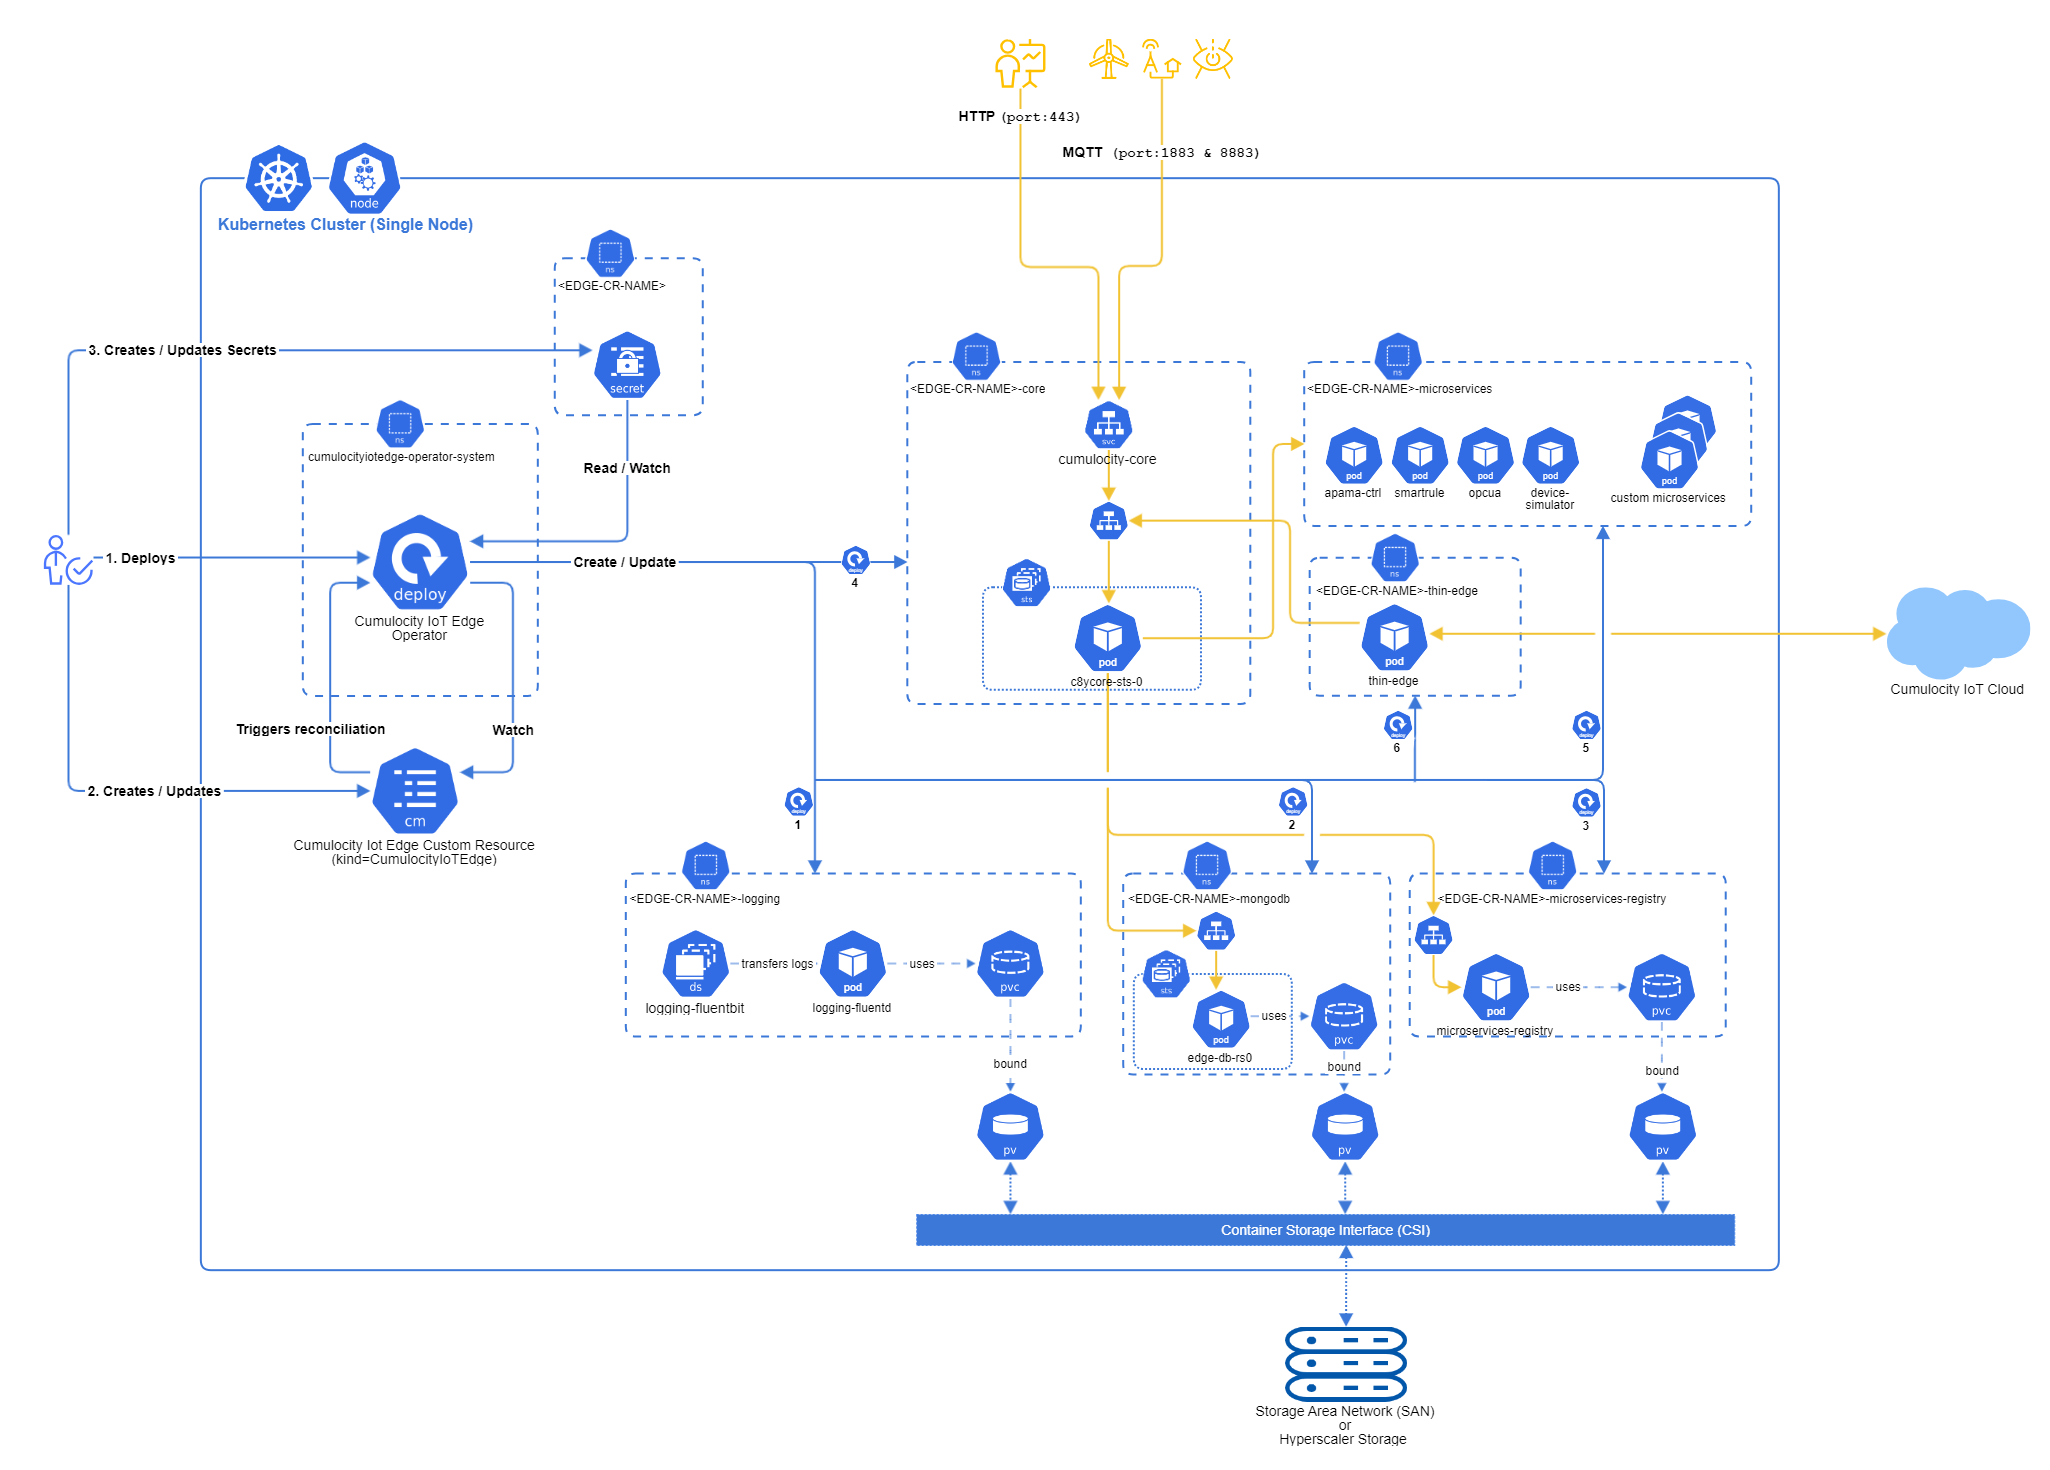
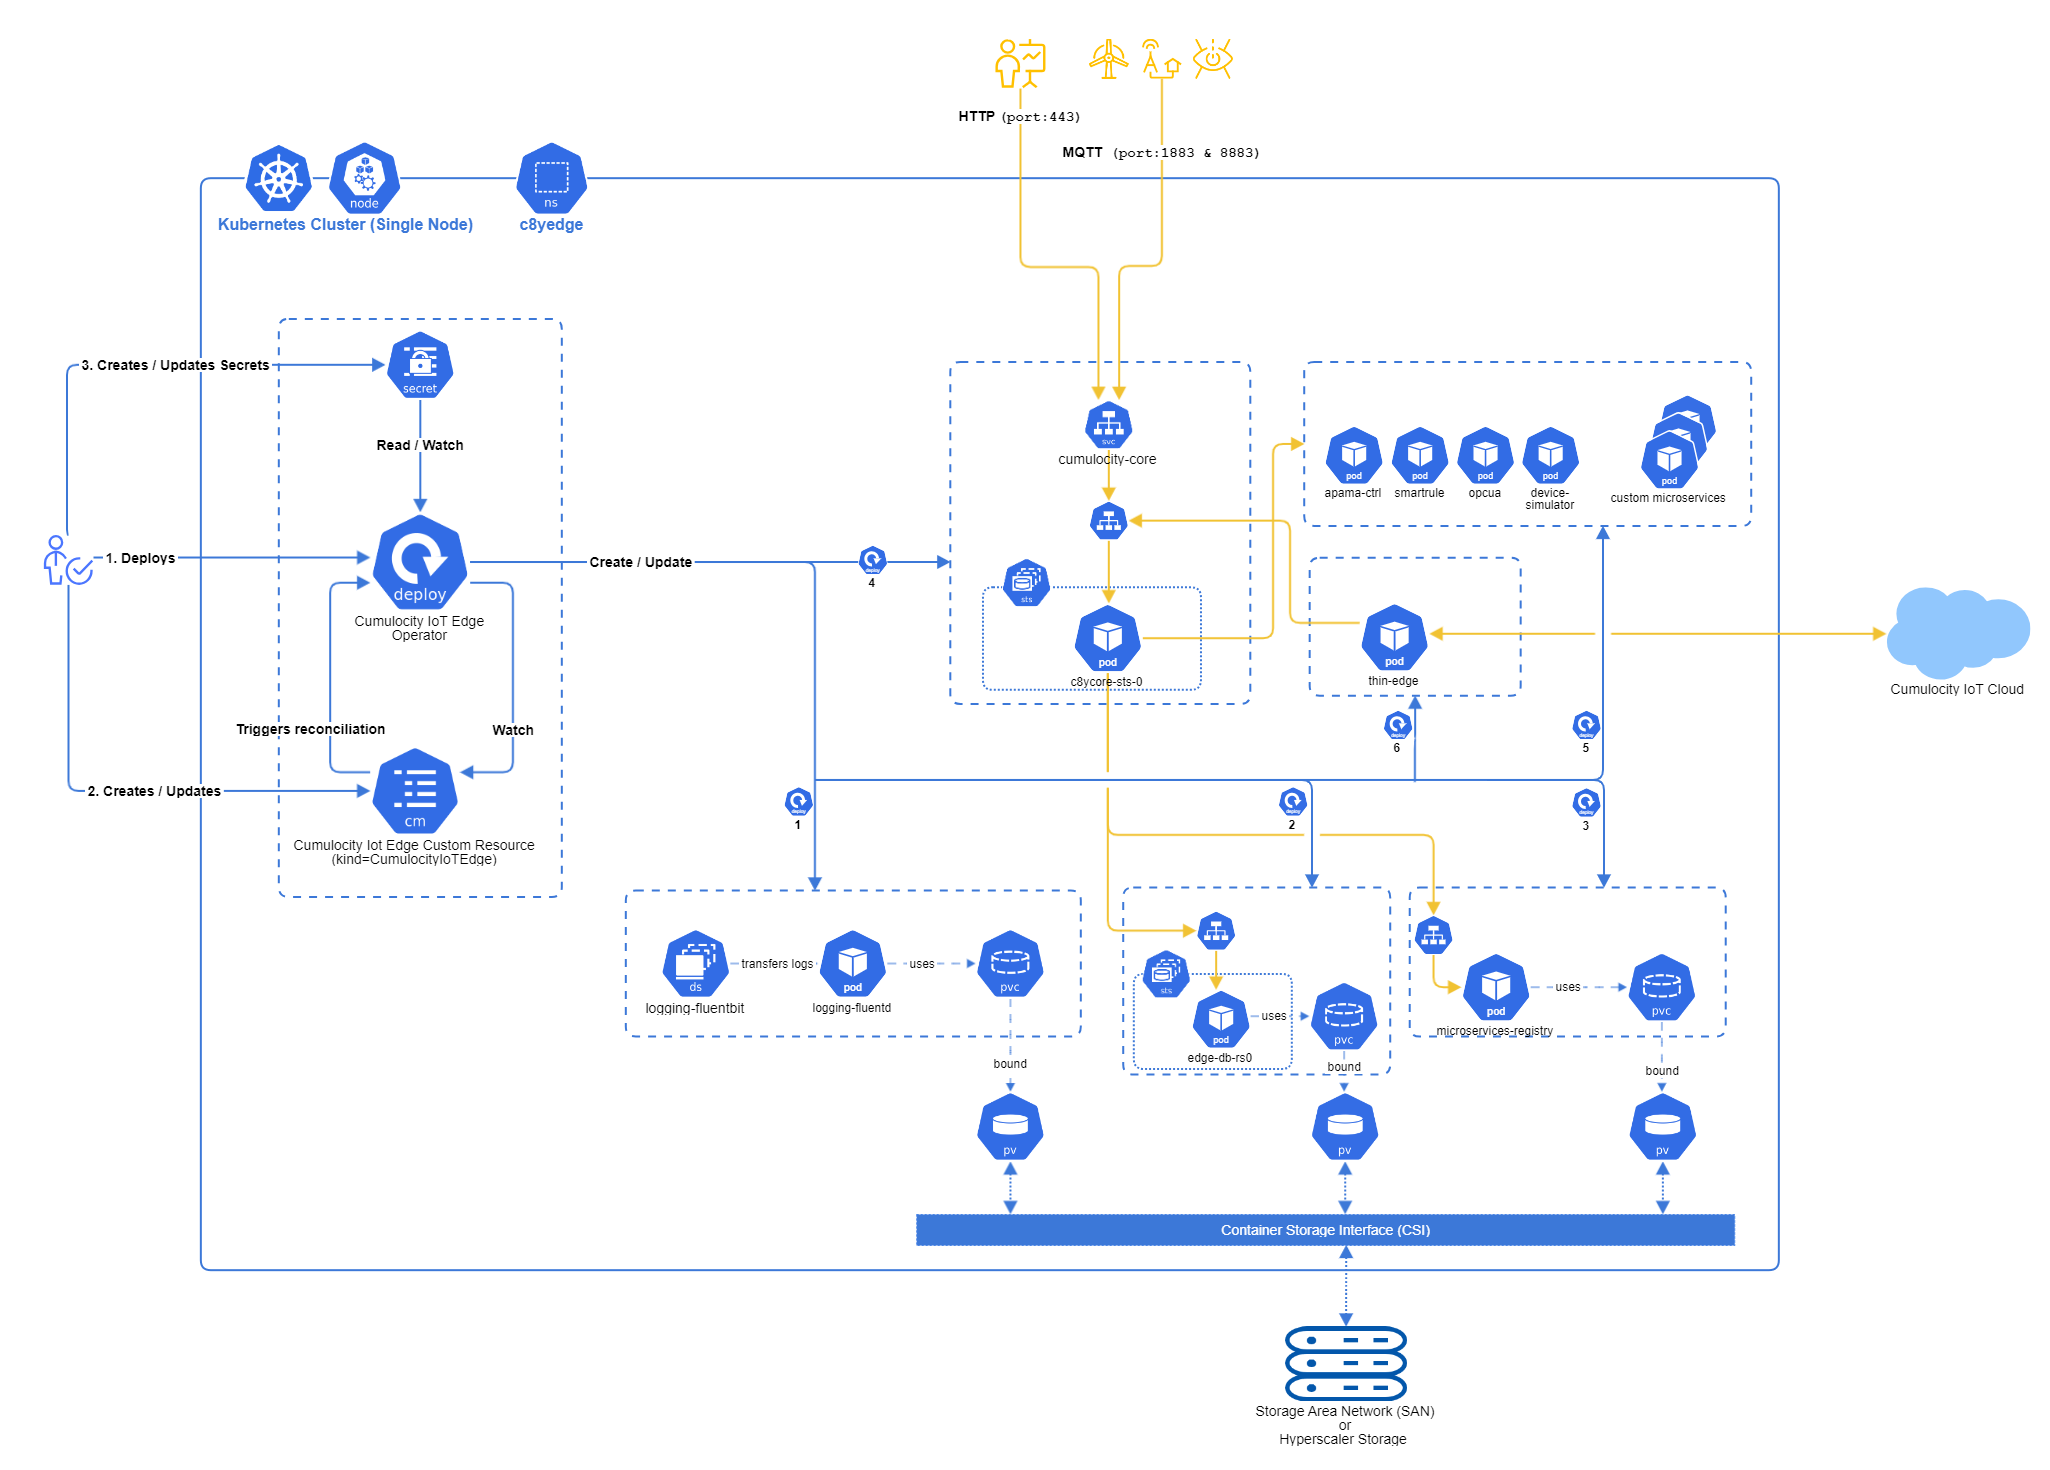
Incorporating comments from Bhaskar.

diff --git a/content/edge-k8s/architecture-concept.md b/content/edge-k8s/architecture-concept.md
@@ -3,8 +3,10 @@ weight: 45
 title: Deployment architecture
 layout: bundle
 ---
-The Edge Operator incorporates a custom controller developed in the Go programming language. This controller oversees the lifecycle and status of the {{< product-c8y-iot >}} Edge deployment. It achieves this by managing a Custom Resource Definition (CRD) that enhances the Kubernetes API to accommodate {{< product-c8y-iot >}} Edge deployment. Update the Edge CR for regular maintenance of the {{< product-c8y-iot >}} Edge deployment and management. 
+The Edge Operator operates within a namespace (default **c8yedge**, unless specified during the Operator installation). It creates and monitors multiple Kubernetes resources that collectively constitute the {{< product-c8y-iot >}} Edge.
 
-The Edge Operator operates within a namespace (default c8yedge unless specified during Operator installation). Here it creates multiple Kubernetes resources across the namespace where the Operator, which it continuously monitors.
+You can deploy {{< product-c8y-iot >}} Edge on Kubernetes in two modes: one includes MongoDB, which is both deployed and managed by the Edge Operator; the other involves connecting to an externally deployed MongoDB.
 
-{{< product-c8y-iot >}} Edge on Kubernetes can be deployed in two modes: one includes MongoDB, which is both deployed and managed by the Edge Operator; the other involves connecting to an externally deployed MongoDB.
+The deployment model is depicted below:
+
+![Edge Operator managed MongoDB](/images/edge-k8s/edge-k8-internal-db.png)

diff --git a/content/edge-k8s/manage-edge-bundle/undeploy-edge.md b/content/edge-k8s/manage-edge-bundle/undeploy-edge.md
@@ -18,7 +18,6 @@ You can uninstall {{< product-c8y-iot >}} Edge either by:
    ```shell
    kubectl delete -f c8yedge-sample.yaml
    ```
-   
 {{< c8y-admon-info >}}
 Substitute the namespace name, which is currently **c8yedge** in the command, with the specific namespace name you've specified in your Edge CR. 
 {{< /c8y-admon-info >}}

diff --git a/content/edge-k8s/edge-k8s-troubleshooting-bundle/edge-k8s-cr-status-install-update-loop-backoff.md b/content/edge-k8s/edge-k8s-troubleshooting-bundle/edge-k8s-cr-status-install-update-loop-backoff.md
@@ -23,8 +23,8 @@ API Version: edge.cumulocity.com/v1
 Kind: CumulocityIoTEdge
 
 Status: 
-	Deploying Generation:  x
-	State: InstallLoopBackOff 
+	Deploying Generation: x
+	State: InstallLoopBackOff 
 
 Events: 
  Type    Reason               Age    From               Message 
